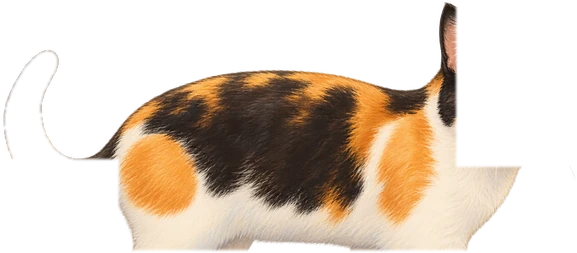
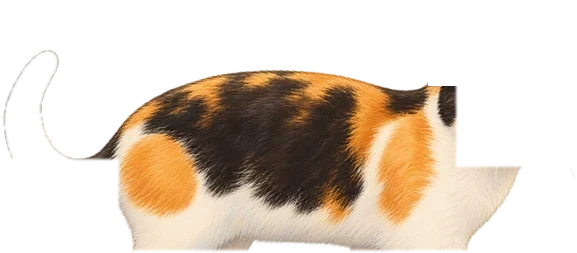
LA OREJA QUE SE ESTIRABA (9 oct, noche; llevado a mano desde bookscat). En los cuatro gatos la punta de la oreja trasera habia caido en la pieza de la COLA y la oreja entera en el CUERPO, porque gato_piezas.py asignaba a la cabeza solo lo que queda a la derecha del cuello; como la cola se mece giran

Changed region(s): [[0.7175, 0.0, 0.8111, 0.3597]]

diff --git a/_tools/gato_piezas.py b/_tools/gato_piezas.py
@@ -136,6 +136,13 @@ def main():
     cabeza_pieza = cabeza.copy()
     cabeza_pieza[:ybarbilla + int(.02 * bh), xcuello - int(.015 * bw):] |= A[:ybarbilla + int(.02 * bh), xcuello - int(.015 * bw):] > 16
     pivote_cabeza = (xcuello + int(.06 * bw), ybarbilla)
+    # ---- las orejas: lo que asoma por encima del lomo cerca del cuello es oreja (de la cabeza) aunque quede a la
+    # izquierda del cuello. Sin esto la oreja trasera caía en el cuerpo y su punta en la cola, y al mecerse la cola
+    # se veía un trozo de oreja "estirarse" lejos de la cabeza (9 oct 2026; las piezas ya hechas se limpiaron a mano)
+    orejas = np.zeros_like(A, dtype=bool)
+    orejas[:max(0, lomo - int(.02 * bh)), max(0, xcuello - int(.15 * bw)):] = A[:max(0, lomo - int(.02 * bh)), max(0, xcuello - int(.15 * bw)):] > 16
+    cabeza |= orejas; cabeza_pieza |= orejas
+    cola &= ~orejas; cola_pieza &= ~orejas
 
     # ---- patas (con la cadera metida bajo el cuerpo) y cuerpo (todo lo demás, con solapes) ----
     arriba_patas = ycut - int(.08 * bh)
